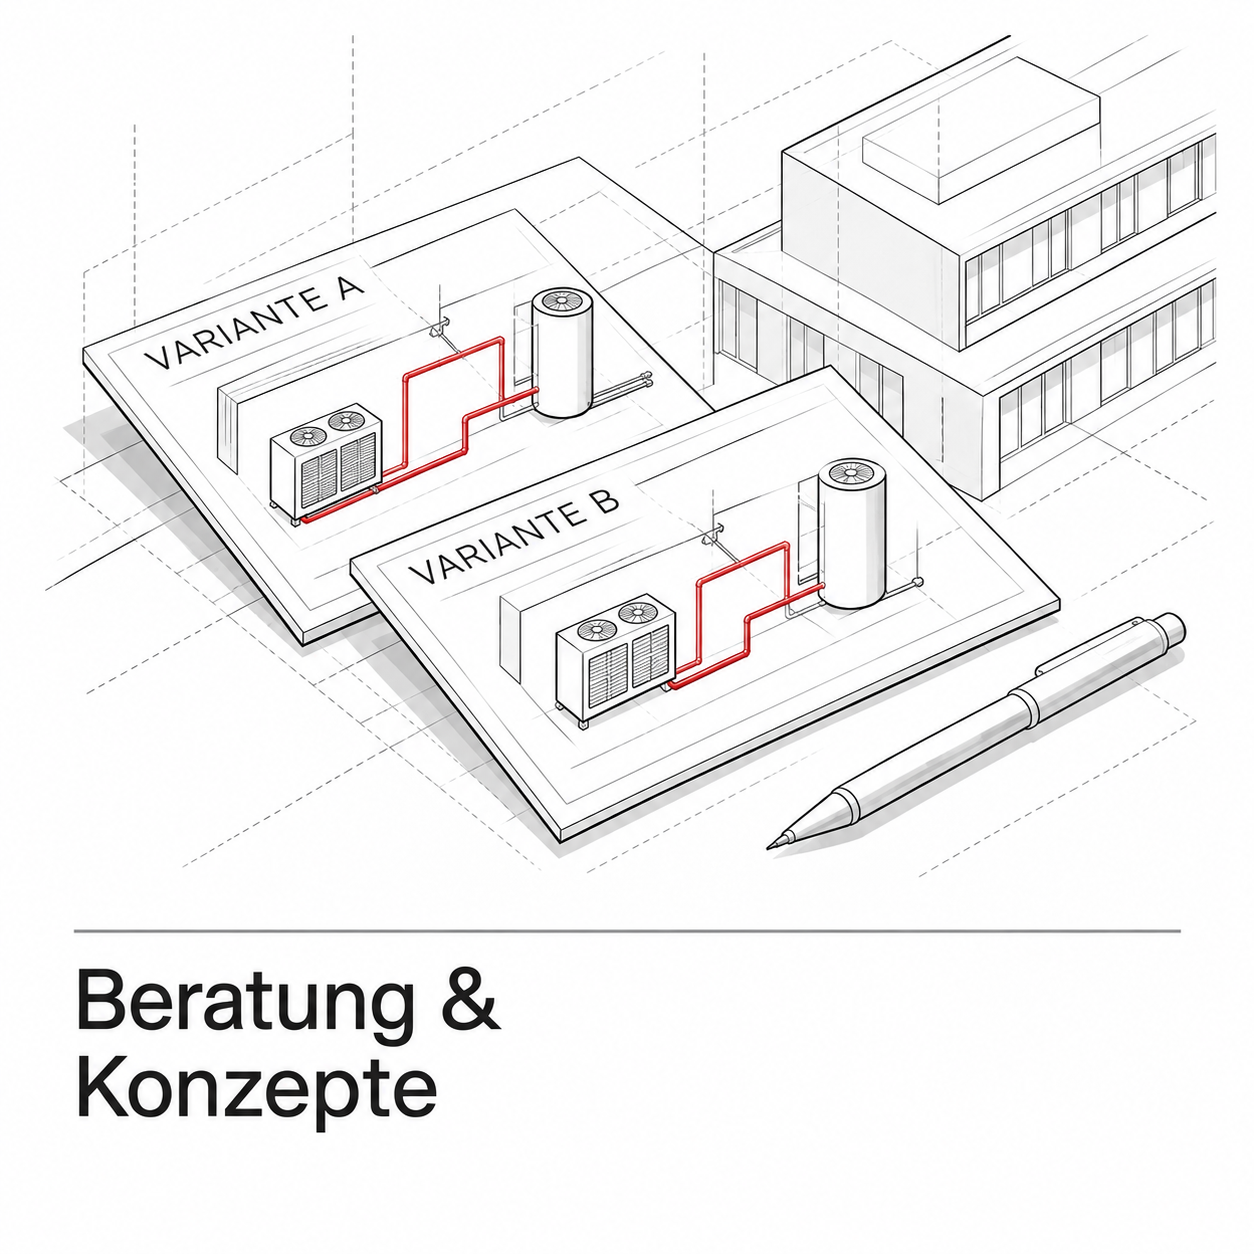
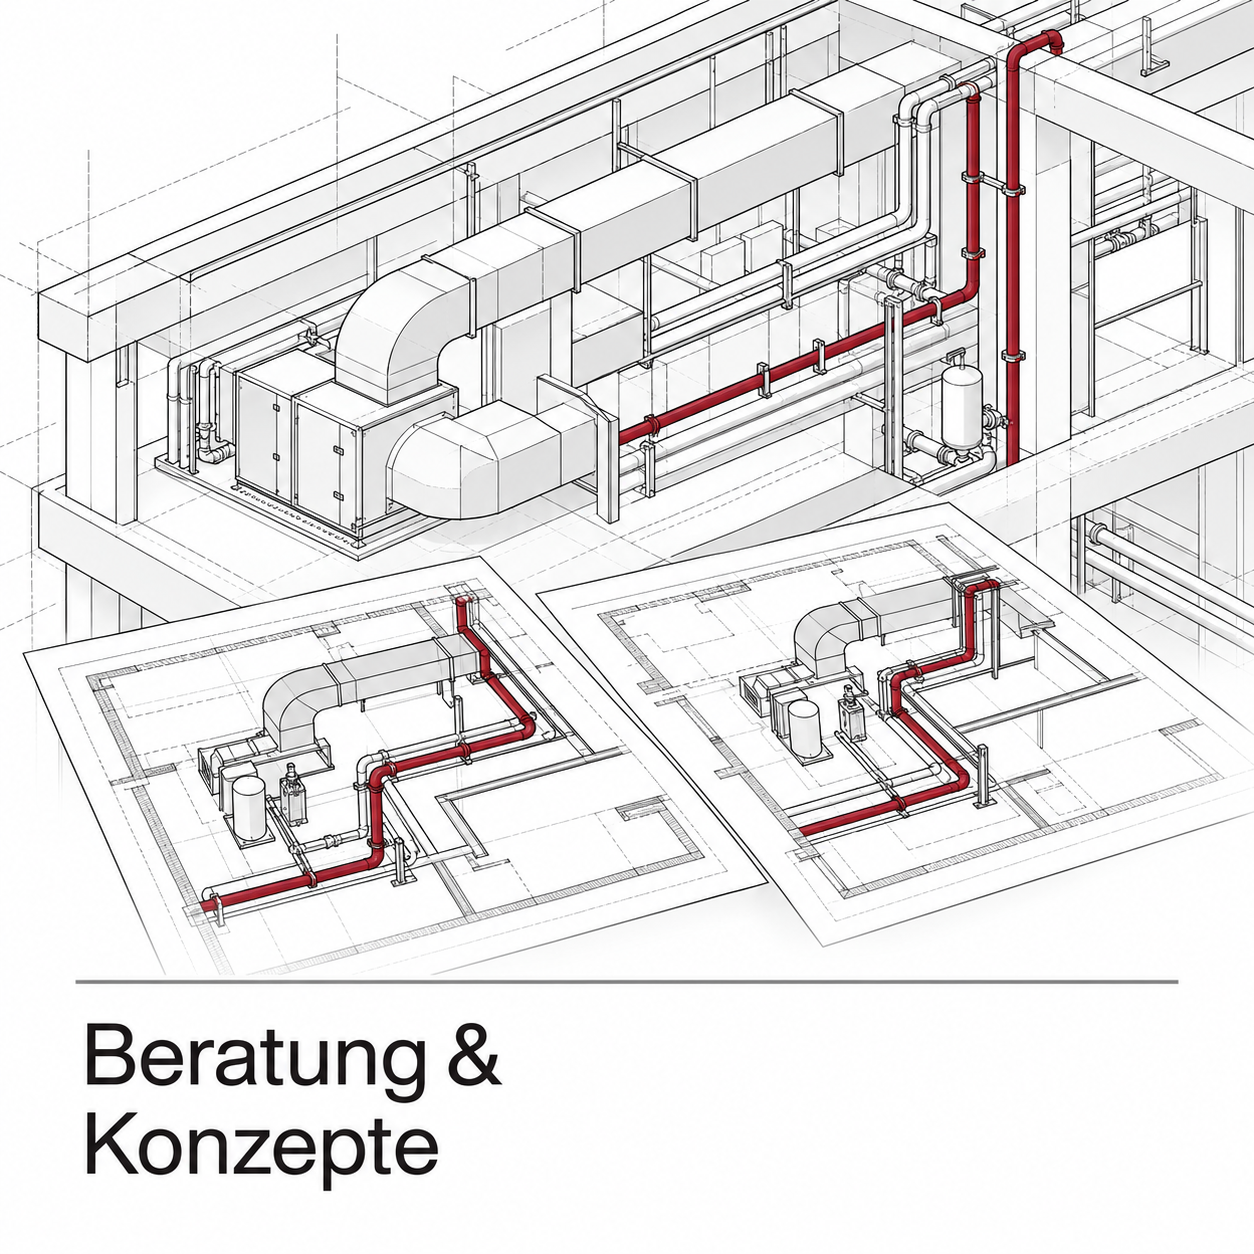
Sechs illustrierte Leistungskacheln einbinden

Changed region(s): [[0.0, 0.0, 1.0, 0.9641], [0.9641, 0.3421, 0.9952, 0.3732]]

diff --git a/leistungen.md b/leistungen.md
@@ -34,29 +34,32 @@ permalink: /leistungen/
   >
 </button>
 <button
-  class="optiplan-tile optiplan-tile--composed"
+  class="optiplan-tile optiplan-tile--illustrated"
   type="button"
   data-service="1"
   aria-expanded="false"
   aria-label="Beratung und Konzepte"
 >
-  <span class="optiplan-tile-visual">
-    <img
-      src="{{ '/assets/leistung-beratung-konzepte.png' | relative_url }}"
-      alt=""
-    >
-  </span>
-
-  <span class="optiplan-tile-caption">
-    <span class="optiplan-tile-caption-title">
-      Beratung &amp; Konzepte
-    </span>
-  </span>
+  <img
+    class="optiplan-tile-artwork"
+    src="{{ '/assets/leistung-beratung-konzepte.png' | relative_url }}"
+    alt=""
+  >
 </button>
 
-      <button class="optiplan-tile" type="button" data-service="2" aria-expanded="false">
-        <span class="optiplan-tile-title">Berechnung &amp; Dimensionierung</span>
-      </button>
+      <button
+  class="optiplan-tile optiplan-tile--illustrated"
+  type="button"
+  data-service="2"
+  aria-expanded="false"
+  aria-label="Berechnung und Dimensionierung"
+>
+  <img
+    class="optiplan-tile-artwork"
+    src="{{ '/assets/leistung-berechnung-dimensionierung.png' | relative_url }}"
+    alt=""
+  >
+</button>
 
     </div>
 
@@ -72,17 +75,47 @@ permalink: /leistungen/
     <!-- Zweite Kachelreihe -->
     <div class="optiplan-tile-row">
 
-      <button class="optiplan-tile" type="button" data-service="3" aria-expanded="false">
-        <span class="optiplan-tile-title">Ausschreibung &amp; Vergabe</span>
-      </button>
+      <button
+  class="optiplan-tile optiplan-tile--illustrated"
+  type="button"
+  data-service="3"
+  aria-expanded="false"
+  aria-label="Ausschreibung und Vergabe"
+>
+  <img
+    class="optiplan-tile-artwork"
+    src="{{ '/assets/leistung-ausschreibung-vergabe.png' | relative_url }}"
+    alt=""
+  >
+</button>
 
-      <button class="optiplan-tile" type="button" data-service="4" aria-expanded="false">
-        <span class="optiplan-tile-title">Bauüberwachung &amp; Kontrolle</span>
-      </button>
+      <button
+  class="optiplan-tile optiplan-tile--illustrated"
+  type="button"
+  data-service="4"
+  aria-expanded="false"
+  aria-label="Bauüberwachung und Kontrolle"
+>
+  <img
+    class="optiplan-tile-artwork"
+    src="{{ '/assets/leistung-bauueberwachung-kontrolle.png' | relative_url }}"
+    alt=""
+  >
+</button>
 
-      <button class="optiplan-tile" type="button" data-service="5" aria-expanded="false">
-        <span class="optiplan-tile-title">Abnahme &amp; Projektabschluss</span>
-      </button>
+      <button
+  class="optiplan-tile optiplan-tile--illustrated"
+  type="button"
+  data-service="5"
+  aria-expanded="false"
+  aria-label="Abnahme und Projektabschluss"
+>
+  <img
+    class="optiplan-tile-artwork"
+    src="{{ '/assets/leistung-abnahme-projektabschluss.png' | relative_url }}"
+    alt=""
+  >
+</button>
 
     </div>
 
